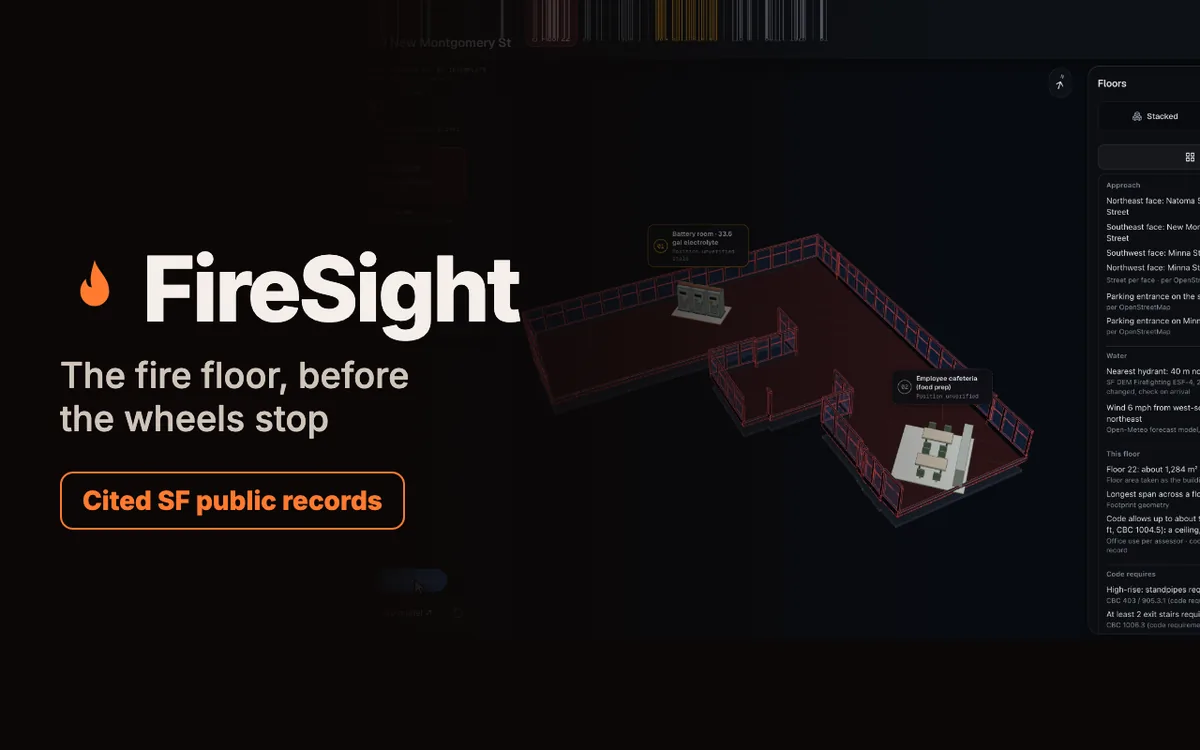
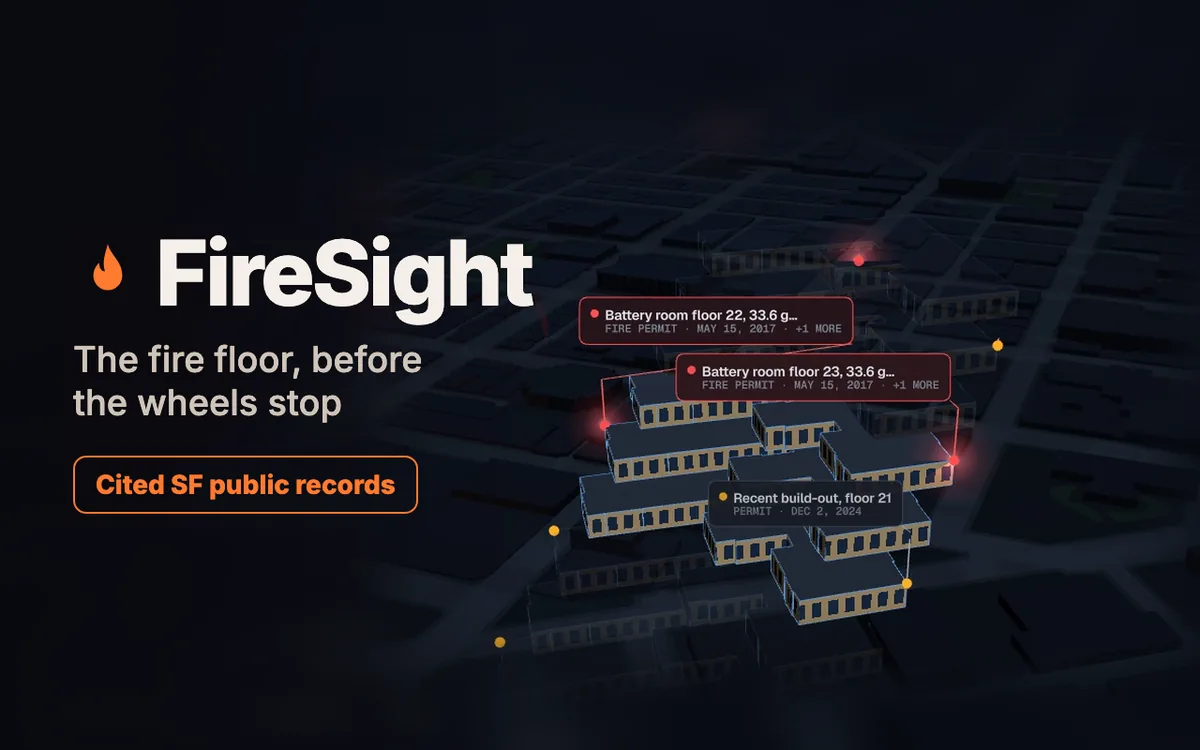
FireSight: exploded-tower thumbnail on the city map

diff --git a/src/data/content.js b/src/data/content.js
@@ -254,7 +254,7 @@ export const hero = {
         badgeKind: 'win',
         image: {
           src: '/builds/ring/firesight.webp',
-          alt: 'FireSight logo, "The fire floor, before the wheels stop", beside a 3D cutaway of a fire floor with a battery room and a cafeteria marked from SF public records',
+          alt: 'FireSight logo, "The fire floor, before the wheels stop", beside a San Francisco tower exploded floor by floor on the city map, with battery rooms on floors 22 and 23 pinned from fire permits',
         },
       },
     ],
@@ -591,7 +591,7 @@ export const builds = {
       stack: 'React · three.js · React Three Fiber · Hono · Zod · Claude · ElevenLabs · MCP · DataSF',
       media: {
         image: '/builds/firesight.webp',
-        alt: 'FireSight logo, "The fire floor, before the wheels stop" and "Cited SF public records", beside a 3D cutaway of a fire floor with a battery room and a cafeteria marked',
+        alt: 'FireSight logo, "The fire floor, before the wheels stop" and "Cited SF public records", beside 140 New Montgomery St exploded floor by floor on the San Francisco city map, with battery rooms on floors 22 and 23 and a recent build-out on floor 21 pinned from city permits',
       },
       links: [
         { label: 'Live demo', href: 'https://firesight-ten.vercel.app' },
